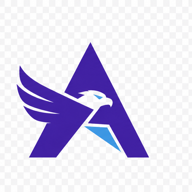
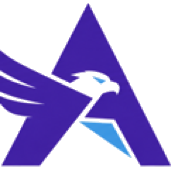
Emphasize boxless AETUS mark in control panel

diff --git a/frontend/ingest-control-panel/src/IngestControlPanel.vue b/frontend/ingest-control-panel/src/IngestControlPanel.vue
@@ -441,18 +441,16 @@ onMounted(() => {
 }
 
 .brand-mark {
-  width: 64px;
-  height: 56px;
-  border-radius: 8px;
+  width: 104px;
+  height: 72px;
   display: grid;
   place-items: center;
-  background: #f6f2ff;
-  border: 1px solid rgba(126, 87, 194, 0.18);
+  background: transparent;
 }
 
 .brand-icon {
-  width: 56px;
-  height: 50px;
+  width: 100px;
+  height: 70px;
   object-fit: contain;
 }
 
